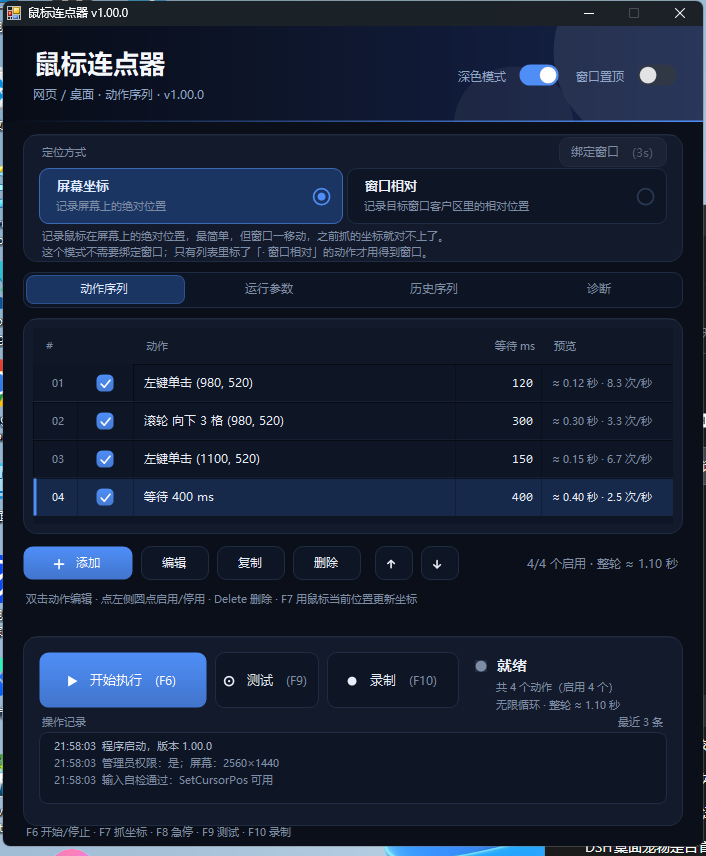
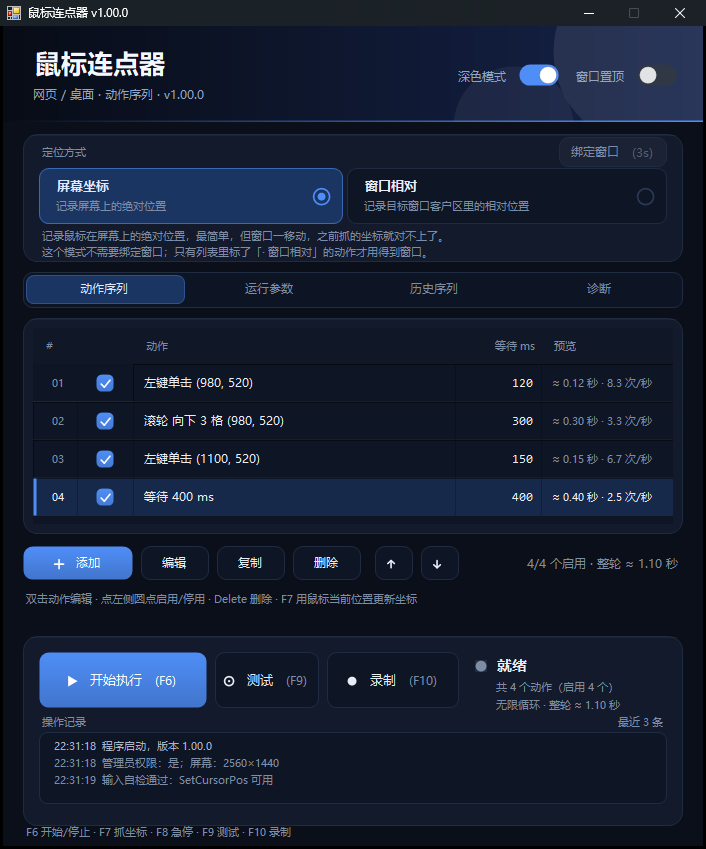
macOS 版补齐鼠标滚轮动作
- macos: ActionKind 增加 wheel，CGEvent 发滚动（方向 + 格数，先移坐标再滚）
- macos: 动作列表增加「添加滚轮」按钮，双击可编辑方向/格数/等待，F7 可更新坐标
- README / 快速上手：把「受管控目录」的说明改成通用写法，不再点名具体路径
- 截图重拍：只包含程序窗口，不再带桌面图标

diff --git a/macos/Sources/MainView.swift b/macos/Sources/MainView.swift
@@ -28,7 +28,7 @@ final class ActionList: NSView {
     var selectedIndex: Int = -1
     var onSelect: ((Int) -> Void)?
     var onToggle: ((Int) -> Void)?
-    var onEditWait: ((Int) -> Void)?
+    var onEdit: ((Int) -> Void)?
 
     let rowHeight: CGFloat = 34
 
@@ -129,7 +129,7 @@ final class ActionList: NSView {
         }
         onSelect?(row)
         if event.clickCount == 2 {
-            onEditWait?(row)
+            onEdit?(row)
         }
     }
 }
@@ -222,16 +222,17 @@ final class MainView: NSView {
             self.persist()
             self.listView.needsDisplay = true
         }
-        listView.onEditWait = { [weak self] index in
-            self?.editWait(at: index)
+        listView.onEdit = { [weak self] index in
+            self?.editAction(at: index)
         }
 
         addButton("添加点击", x: 20, y: 396, w: 96) { [weak self] in self?.addClick() }
-        addButton("添加等待", x: 122, y: 396, w: 96) { [weak self] in self?.addWait() }
-        addButton("删除", x: 224, y: 396, w: 76) { [weak self] in self?.deleteSelected() }
-        addButton("上移", x: 306, y: 396, w: 54) { [weak self] in self?.move(-1) }
-        addButton("下移", x: 366, y: 396, w: 54) { [weak self] in self?.move(1) }
-        addButton("用鼠标位置更新 (F7)", x: 430, y: 396, w: 160) { [weak self] in self?.updateFromMouse() }
+        addButton("添加滚轮", x: 122, y: 396, w: 96) { [weak self] in self?.addWheel() }
+        addButton("添加等待", x: 224, y: 396, w: 96) { [weak self] in self?.addWait() }
+        addButton("删除", x: 326, y: 396, w: 66) { [weak self] in self?.deleteSelected() }
+        addButton("上移", x: 398, y: 396, w: 50) { [weak self] in self?.move(-1) }
+        addButton("下移", x: 454, y: 396, w: 50) { [weak self] in self?.move(1) }
+        addButton("用鼠标位置更新 (F7)", x: 512, y: 396, w: 168) { [weak self] in self?.updateFromMouse() }
 
         addLabel("循环次数", x: 20, y: 442, w: 70)
         addNumberField(loopField, x: 92, y: 438, w: 80)
@@ -401,6 +402,21 @@ final class MainView: NSView {
         refreshStatus()
     }
 
+    private func addWheel() {
+        let p = InputEngine.mouseLocation()
+        var action = MacroAction()
+        action.kind = .wheel
+        action.x = Int(p.x.rounded())
+        action.y = Int(p.y.rounded())
+        action.wheelDelta = -3
+        action.waitMs = 120
+        settings.actions.append(action)
+        listView.selectedIndex = settings.actions.count - 1
+        persist()
+        refreshList()
+        refreshStatus()
+    }
+
     private func addWait() {
         var action = MacroAction()
         action.kind = .wait
@@ -443,8 +459,9 @@ final class MainView: NSView {
             alertUser(title: "先选一个动作", text: "在列表里点一下要更新的动作，再按 F7。")
             return
         }
-        guard settings.actions[index].kind == .click else {
-            alertUser(title: "不是点击动作", text: "只有点击动作有坐标。")
+        let kind = settings.actions[index].kind
+        guard kind == .click || kind == .wheel else {
+            alertUser(title: "这个动作没有坐标", text: "只有点击和滚轮动作有坐标。")
             return
         }
         let p = InputEngine.mouseLocation()
@@ -452,6 +469,68 @@ final class MainView: NSView {
         settings.actions[index].y = Int(p.y.rounded())
         persist()
         refreshList()
+    }
+
+    private func editAction(at index: Int) {
+        guard index >= 0 && index < settings.actions.count else {
+            return
+        }
+        if settings.actions[index].kind == .wheel {
+            editWheel(at: index)
+        } else {
+            editWait(at: index)
+        }
+    }
+
+    private func editWheel(at index: Int) {
+        guard index >= 0 && index < settings.actions.count else {
+            return
+        }
+        let current = settings.actions[index]
+
+        let accessory = NSView(frame: NSRect(x: 0, y: 0, width: 280, height: 66))
+
+        let dirPopup = NSPopUpButton(frame: NSRect(x: 0, y: 34, width: 120, height: 26), pullsDown: false)
+        dirPopup.addItems(withTitles: ["向上滚动", "向下滚动"])
+        dirPopup.selectItem(at: current.wheelDelta >= 0 ? 0 : 1)
+
+        let countField = NSTextField(frame: NSRect(x: 128, y: 35, width: 60, height: 24))
+        countField.stringValue = String(max(1, abs(current.wheelDelta)))
+
+        let countLabel = NSTextField(labelWithString: "格")
+        countLabel.frame = NSRect(x: 194, y: 39, width: 30, height: 18)
+
+        let waitLabel = NSTextField(labelWithString: "动作后等待")
+        waitLabel.frame = NSRect(x: 0, y: 8, width: 70, height: 18)
+
+        let waitField = NSTextField(frame: NSRect(x: 76, y: 4, width: 60, height: 24))
+        waitField.stringValue = String(current.waitMs)
+
+        let waitUnit = NSTextField(labelWithString: "ms")
+        waitUnit.frame = NSRect(x: 142, y: 8, width: 24, height: 18)
+
+        accessory.addSubview(dirPopup)
+        accessory.addSubview(countField)
+        accessory.addSubview(countLabel)
+        accessory.addSubview(waitLabel)
+        accessory.addSubview(waitField)
+        accessory.addSubview(waitUnit)
+
+        let alert = NSAlert()
+        alert.messageText = "编辑滚轮动作"
+        alert.informativeText = "方向 + 格数；坐标可以用 F7 从当前鼠标位置更新。"
+        alert.addButton(withTitle: "确定")
+        alert.addButton(withTitle: "取消")
+        alert.accessoryView = accessory
+
+        if alert.runModal() == .alertFirstButtonReturn {
+            let count = max(1, Int(countField.stringValue) ?? abs(current.wheelDelta))
+            let up = dirPopup.indexOfSelectedItem == 0
+            settings.actions[index].wheelDelta = up ? count : -count
+            settings.actions[index].waitMs = max(0, Int(waitField.stringValue) ?? current.waitMs)
+            persist()
+            refreshList()
+        }
     }
 
     private func editWait(at index: Int) {

diff --git a/macos/Sources/InputEngine.swift b/macos/Sources/InputEngine.swift
@@ -47,6 +47,34 @@ enum InputEngine {
         return true
     }
 
+    /// 发滚轮。notches 正数向上、负数向下，单位是「格」（和 Windows 版对齐）。
+    @discardableResult
+    static func wheel(notches: Int) -> Bool {
+        guard notches != 0 else {
+            return false
+        }
+        let source = CGEventSource(stateID: .hidSystemState)
+        guard let event = CGEvent(
+            scrollWheelEvent2Source: source,
+            units: .line,
+            wheelCount: 1,
+            wheel1: Int32(notches),
+            wheel2: 0,
+            wheel3: 0
+        ) else {
+            return false
+        }
+        event.post(tap: .cghidEventTap)
+        return true
+    }
+
+    /// 先移到目标位置再滚 —— 滚轮是发给光标所在窗口的，不移动可能滚错地方。
+    @discardableResult
+    static func wheel(at point: CGPoint, notches: Int) -> Bool {
+        _ = move(to: point)
+        usleep(useconds_t(12 * 1000))
+        return wheel(notches: notches)
+    }
     /// 在指定位置点一下（按下 → 等 holdMs → 抬起）。
     @discardableResult
     static func click(at point: CGPoint, button: MouseButtonKind, holdMs: Int) -> Bool {

diff --git a/macos/Sources/Model.swift b/macos/Sources/Model.swift
@@ -9,6 +9,7 @@ import Foundation
 
 enum ActionKind: String, Codable {
     case click
+    case wheel
     case wait
 }
 
@@ -31,11 +32,15 @@ struct MacroAction: Codable {
     var x: Int = 0
     var y: Int = 0
     var button: MouseButtonKind = .left
+    /// 滚轮：正数向上、负数向下，单位是「格」
+    var wheelDelta: Int = -3
 
     var title: String {
         switch kind {
         case .click:
             return "\(button.name)单击 (\(x), \(y))"
+        case .wheel:
+            return "滚轮 向\(wheelDelta >= 0 ? "上" : "下") \(abs(wheelDelta)) 格 (\(x), \(y))"
         case .wait:
             return "等待 \(waitMs) ms"
         }

diff --git a/macos/Sources/Runner.swift b/macos/Sources/Runner.swift
@@ -113,6 +113,11 @@ final class Runner {
                     _ = InputEngine.click(at: point, button: action.button, holdMs: settings.holdMs)
                     doneCount += 1
                     notify()
+                } else if action.kind == .wheel {
+                    let point = CGPoint(x: action.x, y: action.y)
+                    _ = InputEngine.wheel(at: point, notches: action.wheelDelta)
+                    doneCount += 1
+                    notify()
                 }
 
                 if !sleep(ms: action.waitMs) {

diff --git a/README.md b/README.md
@@ -11,7 +11,7 @@ C# WinForms，.NET Framework 4.x，系统自带 `csc.exe` 编译，不依赖 Pyt
 
 ## 1. 快速开始
 
-1. 双击 `AutoClicker.exe`（**不要放在 `E:\Program Files\deepseek\work` 下面**，见第 8 节）。
+1. 双击 `AutoClicker.exe`（**建议放在桌面或 `D:\Tools` 这类普通目录**，见第 8 节）。
 2. 第一次打开会有一条示例动作「左键单击 (500, 400)」。
 3. 把鼠标移到目标位置 → 点中那条动作 → 按 `F7` 更新坐标。
 4. 按 `F6` 开始，`F8` 紧急停止。
@@ -197,11 +197,14 @@ AutoClicker.exe --selftest
 
 ### 8.1 程序所在目录被限制
 
-**放在 `E:\Program Files\deepseek\work` 下面的 exe，合成输入会被拦截**（实测：同一个 exe，
-在这个目录里 `SetCursorPos` 直接返回失败，拷到桌面 / `C:\Temp` 就完全正常）。
-表现：程序能开、能跑、日志里 `MOVE` 报失败，但光标一动不动。
+某些**受安全策略管控的目录**（企业 / 学校电脑的受管目录、部分沙箱或云同步盘挂载点）
+会拦截进程合成的鼠标键盘输入：同一个 exe 在这类目录里 `SetCursorPos` 直接返回失败，
+复制到桌面或 `C:\Temp` 就完全正常。
+
+表现：程序能开、能跑，日志里 `MOVE` 报失败，但光标一动不动。
 
 **解决：把 exe 放到桌面、`D:\Tools\...` 或其它普通目录再运行。**
+如果换了目录还是不行，再看 8.2 / 8.3。
 
 ### 8.2 目标程序是管理员权限，本工具不是
 
@@ -261,10 +264,10 @@ autoclicker-v3/
 ## 10. macOS 版（预览）
 
 `macos/` 目录里有一份 macOS 的移植，**功能是 Windows 版的子集**：
-屏幕坐标的点击 + 等待、循环 / 延迟 / 按住、F6 / F7 / F8 / F9、配置存档。
+屏幕坐标的点击 + 滚轮 + 等待、循环 / 延迟 / 按住、F6 / F7 / F8 / F9、配置存档。
 
 - 界面是原生 AppKit，跟随系统深色 / 浅色，不是 Windows 版那套自绘风格；
-- 键盘按键、录制、历史序列、窗口相对坐标**还没做**；
+- 键盘按键、录制、历史序列、窗口相对坐标**还没做**（滚轮已支持）；
 - **这份代码没有在 Mac 上编译验证过**（这台机器没有 macOS）。编译交给
   GitHub Actions 的 `macos-latest`：推上去之后 Actions 会产出 `AutoClicker-macOS.zip`，
   下载解压即可。第一次跑如果报编译错误，按日志修。
@@ -289,5 +292,5 @@ AutoClicker/
    └─ light.png
 ```
 
-注意：**解压到普通目录**（桌面、D:\Tools 之类），不要解压到
-`E:\Program Files\deepseek\work` 下面 —— 那个目录里合成的鼠标/键盘输入会被拦掉。
+注意：**解压到普通目录**（桌面、`D:\Tools` 之类）。放在受安全策略管控的目录里，
+合成的鼠标/键盘输入可能被拦掉（详见第 8 节）。
